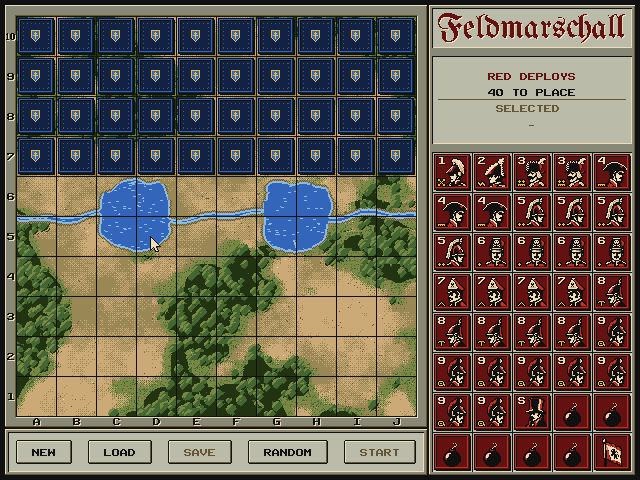
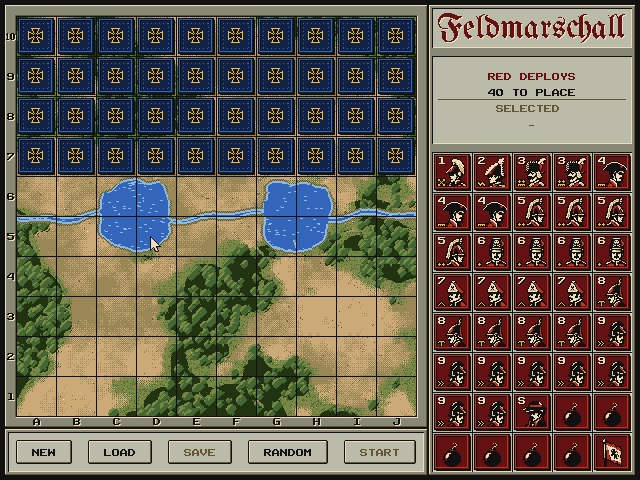
Storing new tiles

diff --git a/assets/scripts/pieces.py b/assets/scripts/pieces.py
@@ -172,8 +172,8 @@ def token(face=None, rank=None):
 
 # Rank insignia in the window's bottom-left corner, after the German
 # shoulder boards: braid for generals and staff officers, pips for the
-# company officers, a chevron for the sergeant and the badges of the
-# pioneers and Jäger. A spy wears none.
+# company officers, a chevron for the sergeant, the pioneers' pick and a
+# double chevron for the scout, who moves any distance. A spy wears none.
 INSIGNIA = {
     '1': [                          # crossed field marshal's batons
         'xx...xx',
@@ -225,12 +225,12 @@ INSIGNIA = {
         '...x...',
         '...x...',
     ],
-    '9': [                          # hunting horn
-        '.xxxx..',
-        'x....x.',
-        'x.xx.x.',
-        'x....xx',
-        '.xxxx.x',
+    '9': [                          # double chevron: the scout runs far
+        'x..x...',
+        '.x..x..',
+        '..x..x.',
+        '.x..x..',
+        'x..x...',
     ],
 }
 
@@ -248,38 +248,41 @@ def draw_insignia(sq, rows):
     sq[y:y + h, x:x + w][mark] = GOLD
 
 
+# the cross pattee of the Iron Cross: ink, with a gold rim
 CREST = [
-    '...........',
-    '.#########.',
-    '.#ooooooo#.',
-    '.#ooo#ooo#.',
-    '.#oo###oo#.',
-    '.#ooo#ooo#.',
-    '.#o#####o#.',
-    '.#ooo#ooo#.',
-    '.#ooo#ooo#.',
-    '..#oo#oo#..',
-    '...#ooo#...',
-    '....#o#....',
-    '.....#.....',
+    '...ggggggggg...',
+    '....g#####g....',
+    '....g#####g....',
+    'g....g###g....g',
+    'ggg..g###g..ggg',
+    'g##gg.g#g.gg##g',
+    'g####g###g####g',
+    'g#############g',
+    'g####g###g####g',
+    'g##gg.g#g.gg##g',
+    'ggg..g###g..ggg',
+    'g....g###g....g',
+    '....g#####g....',
+    '....g#####g....',
+    '...ggggggggg...',
 ]
 
 
 def draw_crest(sq):
-    """Token back: a gold-rimmed shield with a cross, centred in the window."""
+    """Token back: a gold-rimmed black cross, centred in the window."""
     h, w = len(CREST), len(CREST[0])
     y0 = (WINDOW0 + WINDOW1 + 1 - h) // 2
     x0 = (WINDOW0 + WINDOW1 + 1 - w) // 2
     for y, line in enumerate(CREST):
         for x, ch in enumerate(line):
-            if ch == '#':
+            if ch == 'g':
                 sq[y0 + y, x0 + x] = GOLD
-            elif ch == 'o':
-                sq[y0 + y, x0 + x] = RED
-    # a faint frame of studs around the shield
+            elif ch == '#':
+                sq[y0 + y, x0 + x] = INK
+    # a frame of studs in the army colour around the cross
     for i in range(WINDOW0 + 2, WINDOW1 - 1, 4):
         for a, b in ((WINDOW0 + 2, i), (WINDOW1 - 2, i), (i, WINDOW0 + 2), (i, WINDOW1 - 2)):
-            sq[a, b] = BROWN
+            sq[a, b] = RED
 
 
 def build_tokens():

diff --git a/README.md b/README.md
@@ -152,13 +152,15 @@ pieces, one per tray compartment.
 Every token is a 40 × 40 square: a bevelled rim in army colours and a
 30 × 30 portrait. Ranked figures sit right of centre, which leaves the
 top-left corner free for the rank. Bombs and flags show no rank and are
-centred. Pieces Red hasn't identified show their back, a gold shield.
+centred. Pieces Red hasn't identified show their back, the black cross pattée of the
+Iron Cross with a gold rim.
 
 The portraits are heads only, in ink, cream and the army colour, which
 gives the faces most of the window. They come from
 `assets/pieces/prussian.png`, twelve 30 × 30 portraits in rank order, in
-the shared palette. Five pieces wear Prussian headgear over the original
-faces; the others keep theirs:
+the shared palette. Six pieces wear new headgear over the original
+faces and the spy has traded his top hat for a slouch hat; the others,
+the bomb and the flag keep their original art:
 
 | Rank | Headgear | Insignia |
 | --- | --- | --- |
@@ -170,12 +172,13 @@ faces; the others keep theirs:
 | 6 Lieutenant | Black Hussar's mirliton with the death's head | one pip |
 | 7 Sergeant | grenadier's mitre cap | chevron |
 | 8 Miner | spiked helmet | pick |
-| 9 Scout | crested helmet | hunting horn |
-| S Spy | top hat | none |
+| 9 Scout | plain round helmet | double chevron (») |
+| S Spy | slouch hat pulled low (*Schlapphut*) | none |
 
 The gold insignia in the bottom-left corner follow the German shoulder
 boards: braid for generals and staff officers, pips for company officers,
-and the badges of the pioneers and Jäger. They are drawn with an ink
+the pioneers' pick, and a double chevron for the scout, who moves any
+distance. They are drawn with an ink
 outline over the portrait, like the rank, from `INSIGNIA` in
 `assets/scripts/pieces.py`.
 
